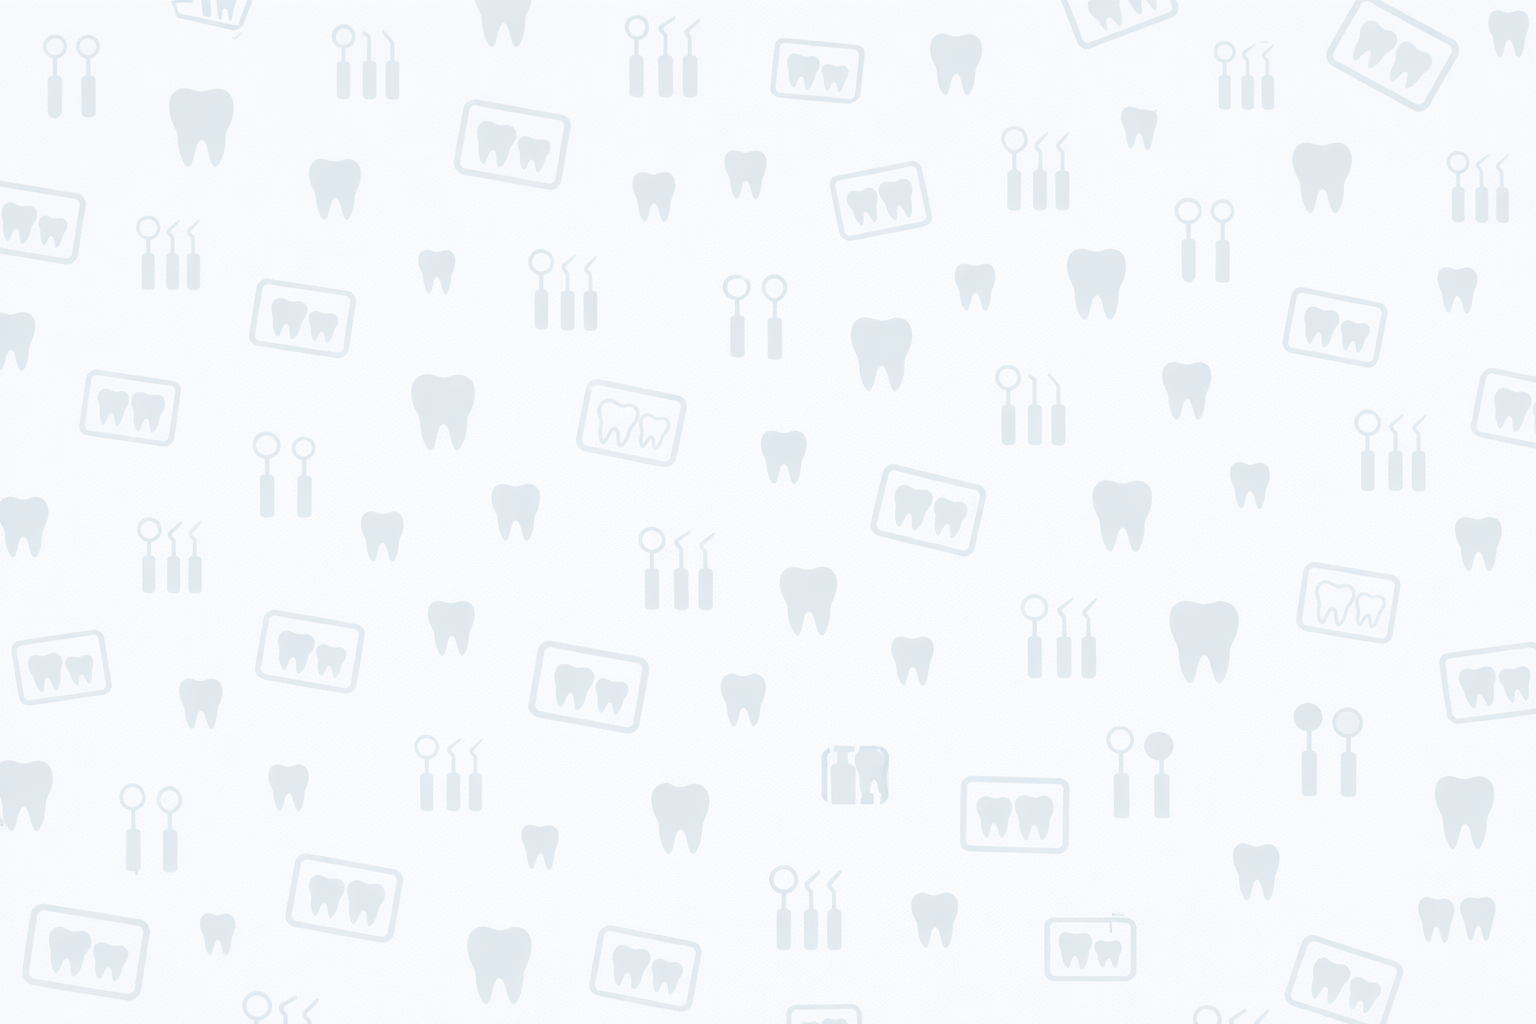
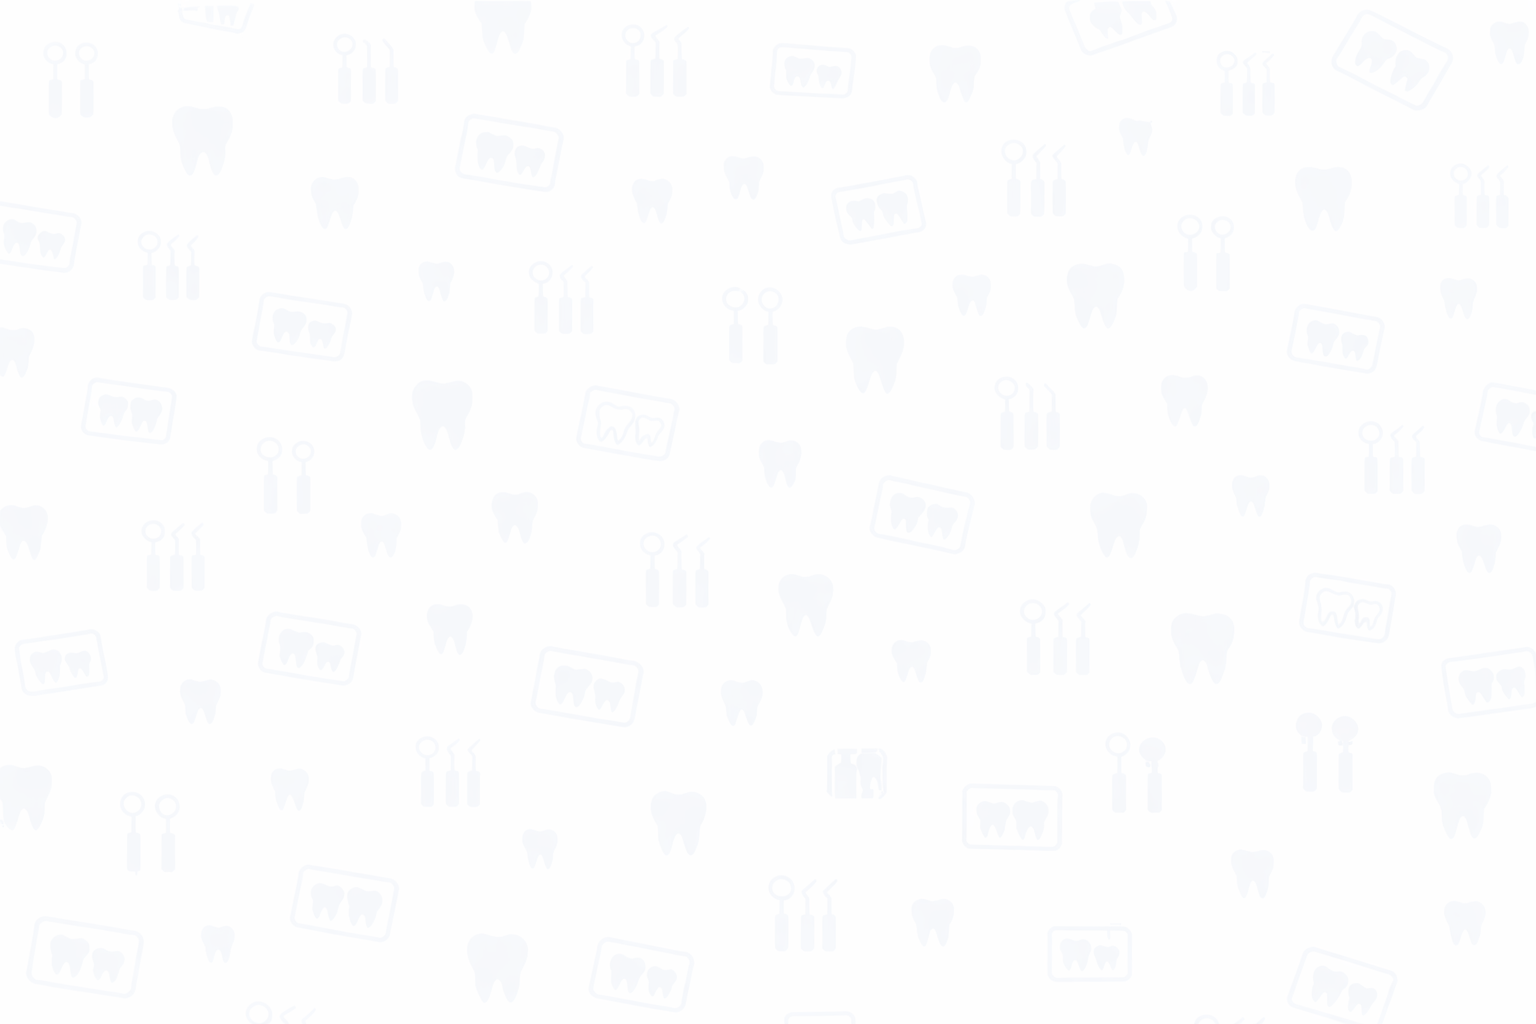
fondo arreglao y tamaño content

diff --git a/frontend/src/pages/EvaluacionClinica.jsx b/frontend/src/pages/EvaluacionClinica.jsx
@@ -16,6 +16,7 @@ import {
   Loader2,
   X
 } from 'lucide-react';
+import bgDashboard from '../assets/fondo_dashboard_2.png';
 
 const EvaluacionClinica = () => {
   const [currentStep, setCurrentStep] = useState(1);
@@ -221,11 +222,14 @@ const EvaluacionClinica = () => {
       </header>
 
       {/* Main Content */}
-      <div className="flex-1 overflow-auto p-8 bg-gray-50/50">
-        <div className="max-w-5xl mx-auto">
+      <div 
+        className="flex-1 overflow-auto p-8 bg-cover bg-center bg-no-repeat bg-fixed"
+        style={{ backgroundImage: `url(${bgDashboard})` }}
+      >
+        <div className="max-w-[90%] 2xl:max-w-7xl mx-auto">
           
           {/* Progress Bar */}
-          <div className="mb-14 px-4">
+          <div className="mb-14 px-4 max-w-5xl mx-auto">
             <div className="flex items-center justify-between relative">
               <div className="absolute left-0 top-1/2 -translate-y-1/2 w-full h-1 bg-gray-200 z-0 rounded-full"></div>
               
